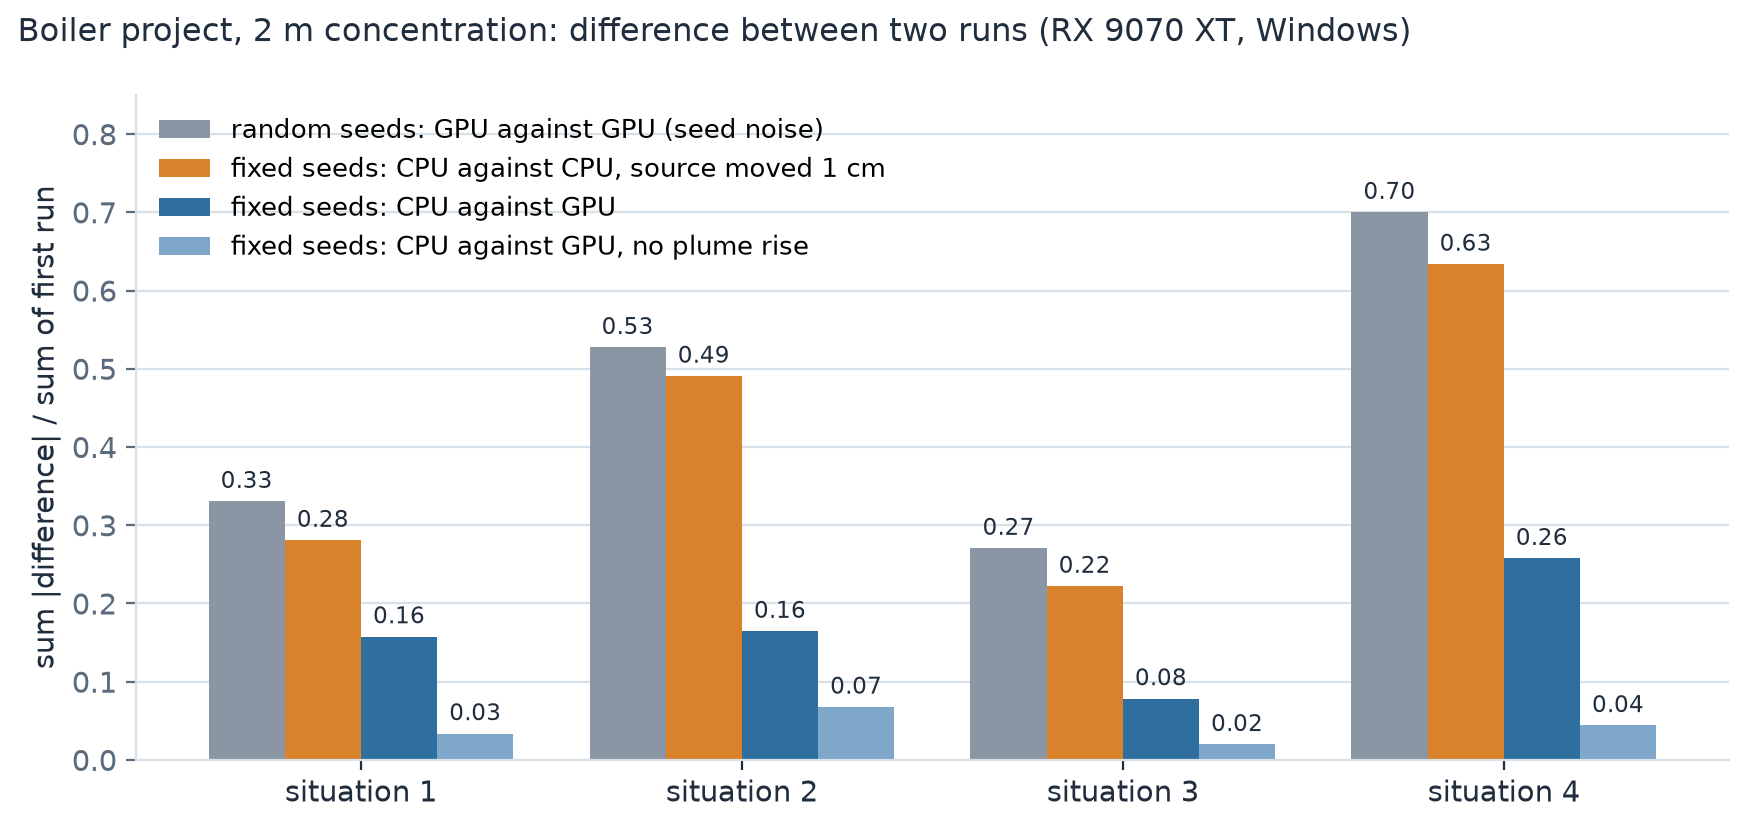
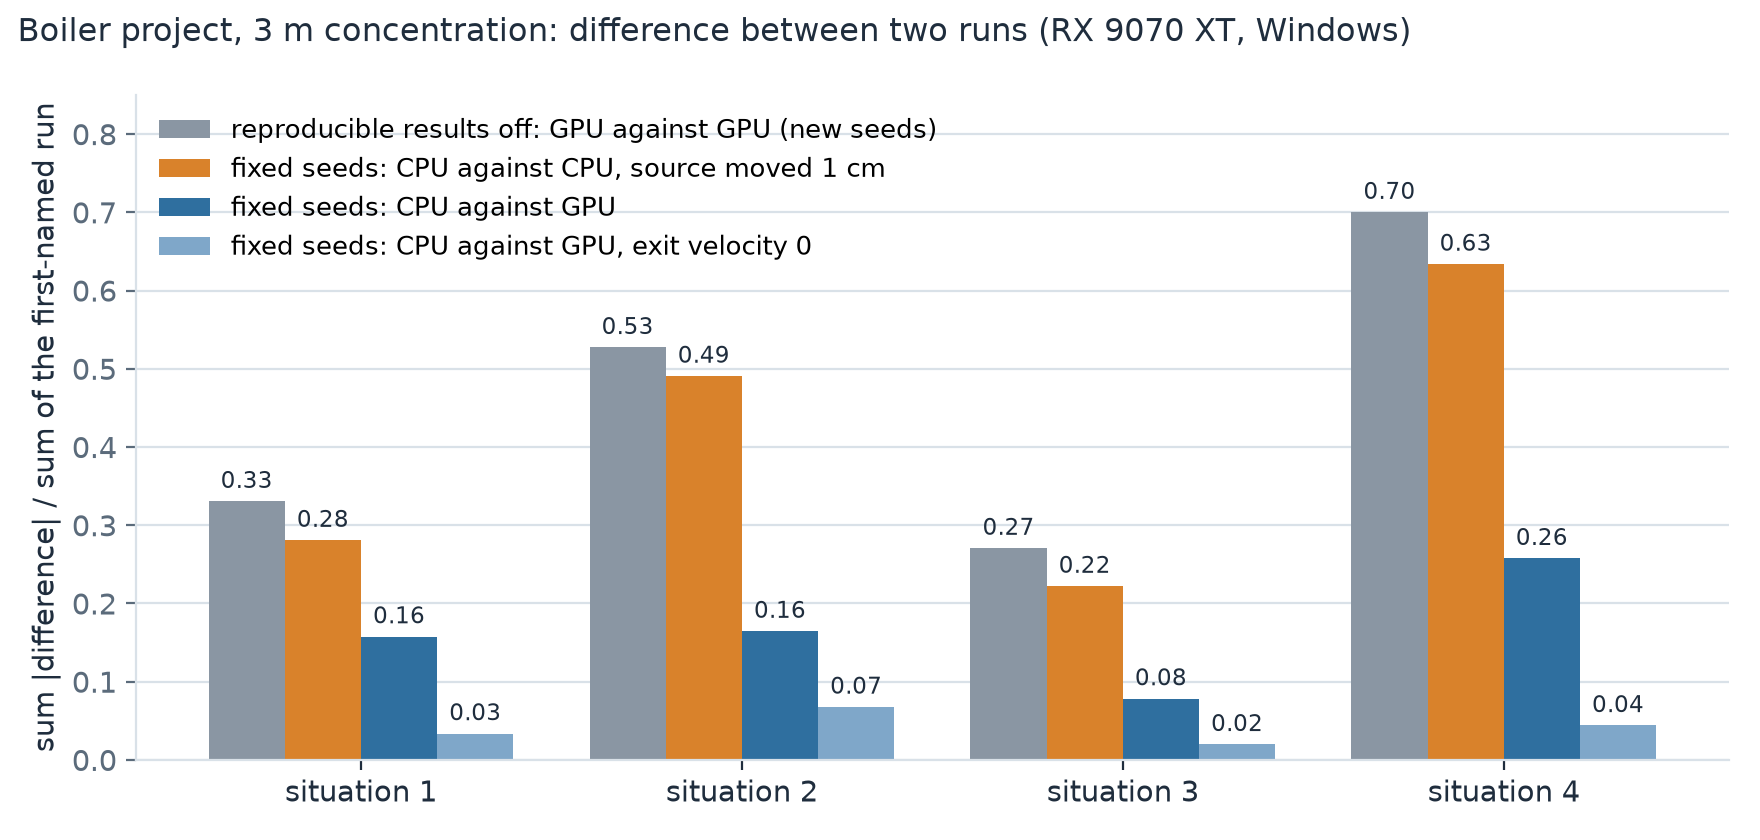
Boiler divergence figure: 3 m slice in the title, reference pair named by its setting
The project has one horizontal slice at 3 m (in.dat line 10), not 2 m. The first bar pair ran with
reproducible results off, so it is labelled by that setting instead of "seed noise". Bar values unchanged.

diff --git a/figures/pr77_20261116/pr77_boiler_divergence.py b/figures/pr77_20261116/pr77_boiler_divergence.py
@@ -1,11 +1,11 @@
 """Figure for the #77 reply of 16 Nov 2026: how far apart two runs of the Boiler project end up, per situation.
 
-Grouped bars, one group per weather situation: sum of absolute cell differences of the 2 m concentration over the
+Grouped bars, one group per weather situation: sum of absolute cell differences of the 3 m concentration (the only slice of this project) over the
 sum of the first run (NMAE), for
-  - random seeds, GPU against GPU (seed noise),
+  - reproducible results off, GPU against GPU (new seeds; the flow field also runs on all threads),
   - fixed seeds, CPU against CPU with the source moved 1 cm,
   - fixed seeds, CPU against GPU,
-  - fixed seeds, CPU against GPU without plume rise (exit velocity 0).
+  - fixed seeds, CPU against GPU with exit velocity 0 (no plume rise; a different concentration field).
 Numbers are recomputed here from the .grz files of the run folders (same decoding as tools/diff_detail.py).
 """
 import json
@@ -22,10 +22,10 @@ JOB = Path(r'<job folder>')
 OUT = Path(__file__).resolve().parent
 NAME = 'pr77_boiler_divergence'
 PAIRS = [
-    ('gpu', 'gpu_repeat', 'random seeds: GPU against GPU (seed noise)', '#8a96a3'),
+    ('gpu', 'gpu_repeat', 'reproducible results off: GPU against GPU (new seeds)', '#8a96a3'),
     ('cpu_fixed', 'cpu_fixed_pert', 'fixed seeds: CPU against CPU, source moved 1 cm', '#d9822b'),
     ('cpu_fixed', 'gpu_fixed', 'fixed seeds: CPU against GPU', '#2f6f9f'),
-    ('cpu_fixed_nopr', 'gpu_fixed_nopr', 'fixed seeds: CPU against GPU, no plume rise', '#7fa7c9'),
+    ('cpu_fixed_nopr', 'gpu_fixed_nopr', 'fixed seeds: CPU against GPU, exit velocity 0', '#7fa7c9'),
 ]
 INK, MUTED, GRID = '#1f2d3d', '#5b6b7b', '#d9e1e8'
 plt.rcParams.update({'font.family': 'DejaVu Sans', 'font.size': 10.5, 'axes.edgecolor': GRID,
@@ -61,12 +61,12 @@ def main():
             ax.text(bx.get_x() + bx.get_width() / 2, bv + 0.01, f'{bv:.2f}', ha='center', va='bottom', fontsize=8.2, color=INK)
     ax.set_xticks(x)
     ax.set_xticklabels([f'situation {s}' for s in range(1, 5)])
-    ax.set_ylabel('sum |difference| / sum of first run')
+    ax.set_ylabel('sum |difference| / sum of the first-named run')
     ax.set_ylim(0, 0.85)
     ax.yaxis.grid(True, color=GRID, linewidth=0.8)
     ax.set_axisbelow(True)
     ax.legend(loc='upper left', frameon=False, fontsize=9.2)
-    fig.suptitle('Boiler project, 2 m concentration: difference between two runs (RX 9070 XT, Windows)',
+    fig.suptitle('Boiler project, 3 m concentration: difference between two runs (RX 9070 XT, Windows)',
                  x=0.01, ha='left', fontsize=11.5, color=INK)
     fig.tight_layout()
     fig.savefig(OUT / f'{NAME}.png', facecolor='white')
